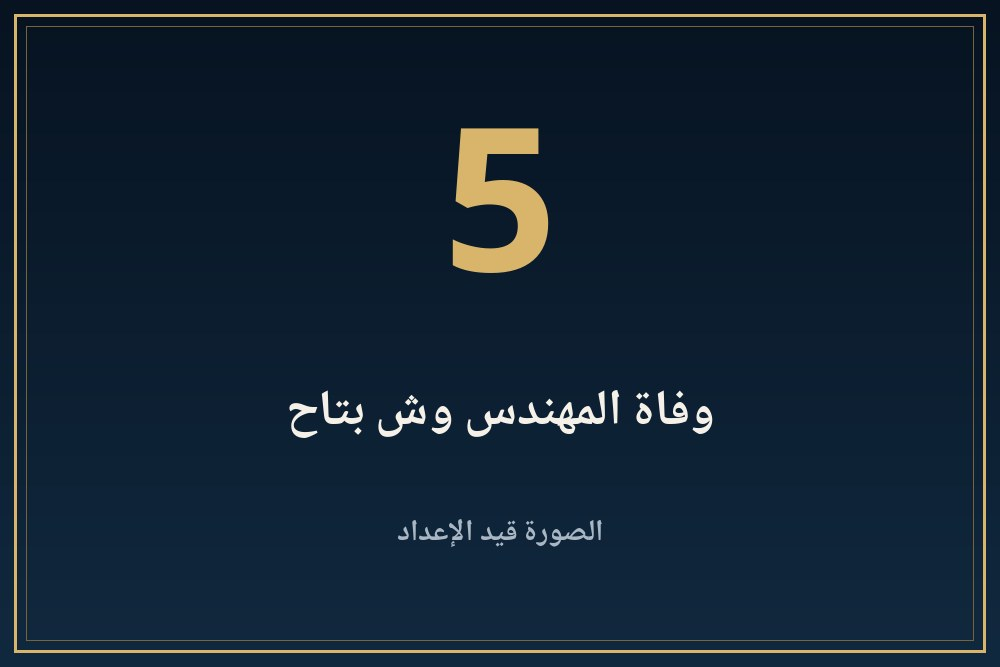
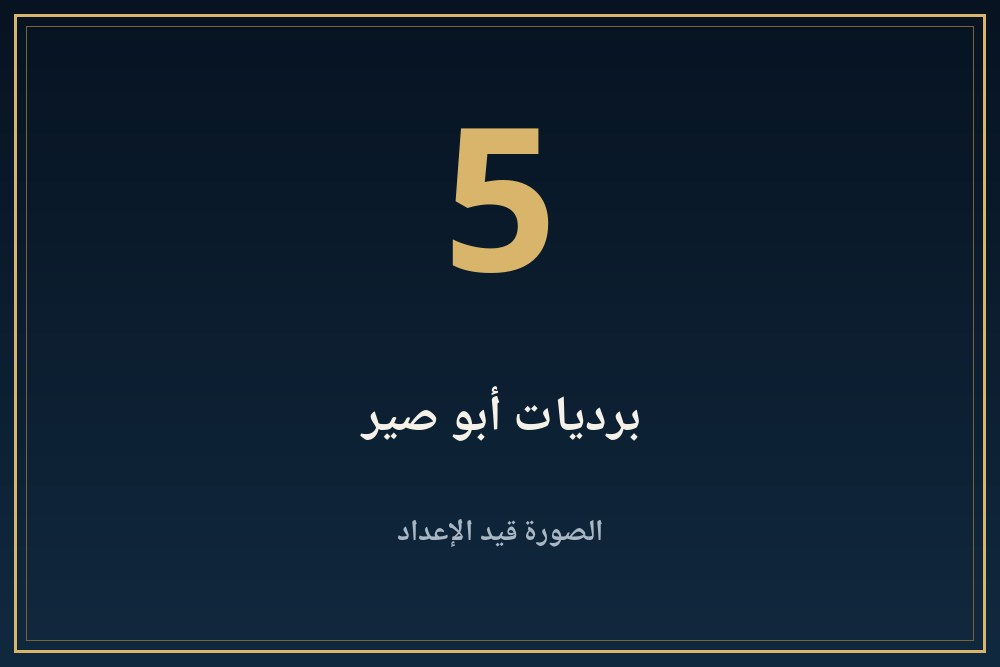
King 026: rebuilt from updated content (placeholders, audio pending)

Changed region(s): [[0.279, 0.5697, 0.713, 0.6597]]

diff --git a/kings/026-nfr-er-ka-ra-kakay/index.html b/kings/026-nfr-er-ka-ra-kakay/index.html
@@ -324,7 +324,7 @@ html[dir=ltr] #panav.open,#pash[dir=ltr] #panav.open{border-right:0!important;bo
 <div class="row"><span class="bdg v">موثّق</span><span>مذكور في مصدر مرقّم يمكن فتحه من قسم المراجع.</span></div>
 <div class="row"><span class="bdg d">محل خلاف</span><span>الصفحة نفسها تذكر أن الباحثين أو المصادر مختلفون فيه.</span></div>
 <div class="row"><span class="bdg u">لم يُتحقق منه</span><span>الصفحة تذكر أنه من مصدر واحد ولم يُتحقق منه في مصدر ثانٍ.</span></div></div>
-<div class="band" aria-hidden="true"></div><details class="acc k1" id="s1"><summary><img class="bnr" src="banners/b01.jpg?v=1" alt="" width="1000" height="667"><span class="n">1</span><span class="t">من هو؟</span><span class="ch"></span></summary><div class="body"><button class="lbtn" type="button" disabled aria-disabled="true" style="opacity:.55;cursor:default"><svg viewBox="0 0 24 24" fill="currentColor" aria-hidden="true"><path d="M7 4.5v15a1 1 0 001.5.86l12-7.5a1 1 0 000-1.72l-12-7.5A1 1 0 007 4.5z"/></svg><span>التعليق الصوتي قريبًا</span></button><p><span class="bdg v">موثّق</span> يقول سليم حسن (ج1 ص257-261) إن نفر إر كا رع، المعروف أيضا بكاكاي، ملك من الأسرة الخامسة. وأضاف للقب الملكي «نفر إر كا رع» ومعناه «جمال قرين رع» وحذا حذوه أخلافه (ص268).<sup><a href="#r1">[1]</a></sup></p></div></details><details class="acc k2" id="s2"><summary><img class="bnr" src="banners/b02.jpg?v=1" alt="" loading="lazy" width="1000" height="667"><span class="n">2</span><span class="t">أوقاف عين شمس</span><span class="ch"></span></summary><div class="body"><button class="lbtn" type="button" disabled aria-disabled="true" style="opacity:.55;cursor:default"><svg viewBox="0 0 24 24" fill="currentColor" aria-hidden="true"><path d="M7 4.5v15a1 1 0 001.5.86l12-7.5a1 1 0 000-1.72l-12-7.5A1 1 0 007 4.5z"/></svg><span>التعليق الصوتي قريبًا</span></button><p><span class="bdg v">موثّق</span> يقول سليم حسن (ص257) إن حجر بالرمو سجّل هبته التاسوع المقدس وأوقاف أرواح عين شمس بأرقام تفصيلية.<sup><a href="#r1">[1]</a></sup></p></div></details><details class="acc k3" id="s3"><summary><img class="bnr" src="banners/b03.jpg?v=1" alt="" loading="lazy" width="1000" height="667"><span class="n">3</span><span class="t">مرسوم إعفاء كهنة المعبد</span><span class="ch"></span></summary><div class="body"><button class="lbtn" type="button" disabled aria-disabled="true" style="opacity:.55;cursor:default"><svg viewBox="0 0 24 24" fill="currentColor" aria-hidden="true"><path d="M7 4.5v15a1 1 0 001.5.86l12-7.5a1 1 0 000-1.72l-12-7.5A1 1 0 007 4.5z"/></svg><span>التعليق الصوتي قريبًا</span></button><p><span class="bdg v">موثّق</span> يذكر سليم حسن (ص258) مرسوما يعفي كهنة المعبد من السخرة، وقد ترجمه كاملا.<sup><a href="#r1">[1]</a></sup></p></div></details><details class="acc k4" id="s4"><summary><img class="bnr" src="banners/b04.jpg?v=1" alt="" loading="lazy" width="1000" height="667"><span class="n">4</span><span class="t">عصا الملك ورع ور</span><span class="ch"></span></summary><div class="body"><button class="lbtn" type="button" disabled aria-disabled="true" style="opacity:.55;cursor:default"><svg viewBox="0 0 24 24" fill="currentColor" aria-hidden="true"><path d="M7 4.5v15a1 1 0 001.5.86l12-7.5a1 1 0 000-1.72l-12-7.5A1 1 0 007 4.5z"/></svg><span>التعليق الصوتي قريبًا</span></button><p><span class="bdg v">موثّق</span> يروي سليم حسن (ص259) قصة رع ور، وكيف لطمت عصا الملك ساقه.<sup><a href="#r1">[1]</a></sup></p></div></details><details class="acc k1" id="s5"><summary><img class="bnr" src="banners/b05.jpg?v=1" alt="" loading="lazy" width="1000" height="667"><span class="n">5</span><span class="t">وفاة المهندس وش بتاح</span><span class="ch"></span></summary><div class="body"><button class="lbtn" type="button" disabled aria-disabled="true" style="opacity:.55;cursor:default"><svg viewBox="0 0 24 24" fill="currentColor" aria-hidden="true"><path d="M7 4.5v15a1 1 0 001.5.86l12-7.5a1 1 0 000-1.72l-12-7.5A1 1 0 007 4.5z"/></svg><span>التعليق الصوتي قريبًا</span></button><p><span class="bdg v">موثّق</span> يروي سليم حسن (ص260-261) موت المهندس وش بتاح بنزيف في المخ أمام الملك، وأن الملك أمر بتابوت من الأبنوس وبتحنيطه بحضوره. ويقول إن ذلك «ضرب المثل الأعلى في حسن المعاملة... وقائع رحمة وإخاء» (ص261).<sup><a href="#r1">[1]</a></sup></p></div></details><details class="acc k2" id="s6"><summary><img class="bnr" src="banners/b06.jpg?v=1" alt="" loading="lazy" width="1000" height="667"><span class="n">6</span><span class="t">ما لا نعرفه</span><span class="ch"></span></summary><div class="body"><button class="lbtn" type="button" disabled aria-disabled="true" style="opacity:.55;cursor:default"><svg viewBox="0 0 24 24" fill="currentColor" aria-hidden="true"><path d="M7 4.5v15a1 1 0 001.5.86l12-7.5a1 1 0 000-1.72l-12-7.5A1 1 0 007 4.5z"/></svg><span>التعليق الصوتي قريبًا</span></button><p><span class="bdg u">لم يُتحقق منه</span> لم نقرأ في مصادرنا مدة حكمه بنص مضمون، ولا ما بقي من آثار هرمه. ولا نعرف مصدرا مصريا ثانيا عنه بعد.</p></div></details><details class="acc k4" id="refs"><summary><img class="bnr" src="banners/b07.jpg?v=1" alt="" loading="lazy" width="1000" height="667"><span class="n">7</span><span class="t">المراجع</span><span class="ch"></span></summary><div class="body"><button class="lbtn" type="button" disabled aria-disabled="true" style="opacity:.55;cursor:default"><svg viewBox="0 0 24 24" fill="currentColor" aria-hidden="true"><path d="M7 4.5v15a1 1 0 001.5.86l12-7.5a1 1 0 000-1.72l-12-7.5A1 1 0 007 4.5z"/></svg><span>التعليق الصوتي قريبًا</span></button><p><b>مصادر فتحتُ صفحاتها وقرأتها:</b></p><ol><li id="r1" dir="auto">سليم حسن، موسوعة مصر القديمة، ج1، الفصل 15: <a dir="ltr" style="display:inline-block;overflow-wrap:anywhere" href="https://archive.org/details/20201104_20201104_1559" rel="noopener" target="_blank">archive.org/details/20201104_20201104_1559</a></li></ol><div class="flag"><b>تنبيه:</b> عدد المصادر المصرية المفتوحة لهذه الصفحة واحد فقط. لا نضيف تفاصيل لم تثبت في مصدر فتحناه وقرأنا نصه، وحيث يختلف المصدران ننسب كل رأي لصاحبه.</div></div></details></article><aside class="abt" aria-label="عن هذه الصفحة"><h3>عن هذه الصفحة</h3><ul><li><b>المحتوى</b><span>جزء من موسوعة بر عنخ التعليمية. التواريخ والتفسيرات وفق المراجع المتاحة، وقد تختلف التفاصيل بين الدراسات.</span></li><li><b>الصور</b><span>صور هذه الصفحة أماكن حجز مؤقتة إلى أن تُضاف الصور الفنية.</span></li><li><b>الصوت</b><span>التعليق الصوتي قيد الإعداد.</span></li></ul></aside><a class="back" href="/kings/">← تصفح المزيد</a><a class="back" href="/">العودة إلى الرئيسية</a><dialog id="lb"><img alt=""><p></p><button type="button">إغلاق</button></dialog>
+<div class="band" aria-hidden="true"></div><details class="acc k1" id="s1"><summary><img class="bnr" src="banners/b01.jpg?v=1" alt="" width="1000" height="667"><span class="n">1</span><span class="t">من هو؟</span><span class="ch"></span></summary><div class="body"><button class="lbtn" type="button" disabled aria-disabled="true" style="opacity:.55;cursor:default"><svg viewBox="0 0 24 24" fill="currentColor" aria-hidden="true"><path d="M7 4.5v15a1 1 0 001.5.86l12-7.5a1 1 0 000-1.72l-12-7.5A1 1 0 007 4.5z"/></svg><span>التعليق الصوتي قريبًا</span></button><p><span class="bdg v">موثّق</span> يقول كتاب الميت (ص32) إن نفر إر كا رع ابن لمنكاورع وأخ لساحورع، أمهما خنتكاوس. ويقول نور الدين (ص714) إنه يُعرف أيضا بكاكاي.<sup><a href="#r3">[3]</a><a href="#r5">[5]</a></sup></p></div></details><details class="acc k2" id="s2"><summary><img class="bnr" src="banners/b02.jpg?v=1" alt="" loading="lazy" width="1000" height="667"><span class="n">2</span><span class="t">حجر بالرمو</span><span class="ch"></span></summary><div class="body"><button class="lbtn" type="button" disabled aria-disabled="true" style="opacity:.55;cursor:default"><svg viewBox="0 0 24 24" fill="currentColor" aria-hidden="true"><path d="M7 4.5v15a1 1 0 001.5.86l12-7.5a1 1 0 000-1.72l-12-7.5A1 1 0 007 4.5z"/></svg><span>التعليق الصوتي قريبًا</span></button><p><span class="bdg v">موثّق</span> يقول كتاب الميت (ص32) إن حجر بالرمو يعود إلى عهد نفر إر كا رع، الذي «يبدو أنه أول ملك رأى فائدة تسجيل الحوليات الملكية منذ بداية العصر التاريخي». ويقول (ص374) إنه لوح من الديوريت ارتفاعه 43 سم منقوش على وجهيه، وإن آخر ملك مذكور فيه نفر إر كا رع.<sup><a href="#r5">[5]</a></sup></p></div></details><details class="acc k3" id="s3"><summary><img class="bnr" src="banners/b03.jpg?v=1" alt="" loading="lazy" width="1000" height="667"><span class="n">3</span><span class="t">كيف يُقرأ حجر بالرمو؟</span><span class="ch"></span></summary><div class="body"><button class="lbtn" type="button" disabled aria-disabled="true" style="opacity:.55;cursor:default"><svg viewBox="0 0 24 24" fill="currentColor" aria-hidden="true"><path d="M7 4.5v15a1 1 0 001.5.86l12-7.5a1 1 0 000-1.72l-12-7.5A1 1 0 007 4.5z"/></svg><span>التعليق الصوتي قريبًا</span></button><p><span class="bdg v">موثّق</span> يقول كتاب الميت (ص374) إن الحجر مقسم إلى أشرطة أفقية، في أعلاها اسم الملك وأمه، وفي الصفوف التالية خانة لكل سنة حكم تسرد أبرز أحداثها: احتفالات وحروب وبناء وإحصاء للثروة، وفي السطر الثاني قياسات يُرجّح أنها ارتفاع الفيضان. ويقول صالح (ص71) إنه يضم فترات الحكم بالأعوام والشهور والأيام وعهودا مشهورة بمنشآت وأعياد وحروب وبعثات تجارية. ويقول حواس (ص11) إنه من القوائم الملكية التي تسجل تسلسل الملوك.<sup><a href="#r2">[2]</a><a href="#r4">[4]</a><a href="#r5">[5]</a></sup></p></div></details><details class="acc k4" id="s4"><summary><img class="bnr" src="banners/b04.jpg?v=1" alt="" loading="lazy" width="1000" height="667"><span class="n">4</span><span class="t">الإحصاء في حجر بالرمو</span><span class="ch"></span></summary><div class="body"><button class="lbtn" type="button" disabled aria-disabled="true" style="opacity:.55;cursor:default"><svg viewBox="0 0 24 24" fill="currentColor" aria-hidden="true"><path d="M7 4.5v15a1 1 0 001.5.86l12-7.5a1 1 0 000-1.72l-12-7.5A1 1 0 007 4.5z"/></svg><span>التعليق الصوتي قريبًا</span></button><p><span class="bdg d">محل خلاف</span> يقول صالح (ص135) إن الإحصاء المذكور في حوليات حجر بالرمو لا نعرف حقيقته: قد يكون إحصاء لمساحات الأراضي المنزرعة وموارد المناجم، أو إحصاء للسكان وممتلكاتهم كما يظن برستد، أو إحصاء للماشية. فالمسألة غير محسومة.<sup><a href="#r2">[2]</a></sup></p></div></details><details class="acc k1" id="s5"><summary><img class="bnr" src="banners/b05.jpg?v=1" alt="" loading="lazy" width="1000" height="667"><span class="n">5</span><span class="t">برديات أبو صير</span><span class="ch"></span></summary><div class="body"><button class="lbtn" type="button" disabled aria-disabled="true" style="opacity:.55;cursor:default"><svg viewBox="0 0 24 24" fill="currentColor" aria-hidden="true"><path d="M7 4.5v15a1 1 0 001.5.86l12-7.5a1 1 0 000-1.72l-12-7.5A1 1 0 007 4.5z"/></svg><span>التعليق الصوتي قريبًا</span></button><p><span class="bdg v">موثّق</span> يقول كتاب الميت (ص32) إن مجموعة برديات تكشف تنظيم الشعائر الجنائزية وُجدت في أطلال معبد نفر إر كا رع الجنائزي، وإن معبد الشمس كان يموّن القرابين اليومية للمجموعة الهرمية. ويقول (ص375-376) إن فلاحين وجدوها عام 1893 وباعوها، فتفرقت بين القاهرة ولندن وباريس وبرلين، وإن بورخارت وجد المزيد منها في مكانها قرب هرمه عام 1903، وهي من أقدم الوثائق في مصر الفرعونية، وتشمل قوائم أفراد وسجلات وجردا وجداول كهنة. ويؤرخ الكتاب القطعة 117 إلى عهد إسيسي، فالأرشيف بدأ عند نفر إر كا رع واستمر بعده.<sup><a href="#r5">[5]</a></sup></p></div></details><details class="acc k2" id="s6"><summary><img class="bnr" src="banners/b06.jpg?v=1" alt="" loading="lazy" width="1000" height="667"><span class="n">6</span><span class="t">الألقاب الملكية</span><span class="ch"></span></summary><div class="body"><button class="lbtn" type="button" disabled aria-disabled="true" style="opacity:.55;cursor:default"><svg viewBox="0 0 24 24" fill="currentColor" aria-hidden="true"><path d="M7 4.5v15a1 1 0 001.5.86l12-7.5a1 1 0 000-1.72l-12-7.5A1 1 0 007 4.5z"/></svg><span>التعليق الصوتي قريبًا</span></button><p><span class="bdg v">موثّق</span> يقول كتاب الميت (ص32) إن شكل الألقاب الملكية صار منتظما في عهده بخمسة عناصر، اثنان منها داخل خرطوشين. ويقول سليم حسن (ص268) إنه أضاف لقب «نفر إر كا رع» أي «جمال قرين رع» وحذا حذوه أخلافه.<sup><a href="#r1">[1]</a><a href="#r5">[5]</a></sup></p></div></details><details class="acc k3" id="s7"><summary><img class="bnr" src="banners/b07.jpg?v=1" alt="" loading="lazy" width="1000" height="667"><span class="n">7</span><span class="t">حكايتان من عهده</span><span class="ch"></span></summary><div class="body"><button class="lbtn" type="button" disabled aria-disabled="true" style="opacity:.55;cursor:default"><svg viewBox="0 0 24 24" fill="currentColor" aria-hidden="true"><path d="M7 4.5v15a1 1 0 001.5.86l12-7.5a1 1 0 000-1.72l-12-7.5A1 1 0 007 4.5z"/></svg><span>التعليق الصوتي قريبًا</span></button><p><span class="bdg d">محل خلاف</span> يقول صالح (ص211) إن رجلين من عهده رويا حكايتين: رع ور الذي وكزه الملك بعصاه ربما عن غير قصد في حفل، ثم طمأنه وسمح له بنقش ذلك في مقبرته، والوزير واش بتاح الذي مات فجأة والملك يرافقه، فحاول الملك إسعافه بعقاقيره، ثم ترحم عليه. ويقول صالح إن فيكنتيف رأى أن وقوع الحادثتين في عهد واحد يدل على مصلحة للملك فيهما، وإن شارف فسّر الأولى تفسيرا آخر. ويرويهما سليم حسن (ص259-261) أيضا.<sup><a href="#r1">[1]</a><a href="#r2">[2]</a></sup></p></div></details><details class="acc k4" id="s8"><summary><img class="bnr" src="banners/b08.jpg?v=1" alt="" loading="lazy" width="1000" height="667"><span class="n">8</span><span class="t">ما لا نعرفه</span><span class="ch"></span></summary><div class="body"><button class="lbtn" type="button" disabled aria-disabled="true" style="opacity:.55;cursor:default"><svg viewBox="0 0 24 24" fill="currentColor" aria-hidden="true"><path d="M7 4.5v15a1 1 0 001.5.86l12-7.5a1 1 0 000-1.72l-12-7.5A1 1 0 007 4.5z"/></svg><span>التعليق الصوتي قريبًا</span></button><p><span class="bdg u">لم يُتحقق منه</span> لا نعرف مدة حكمه بيقين: أرقام قائمة نور الدين (ص714) مشوهة في نسختنا، فلم نذكرها. ولا نعرف سبب توقف حجر بالرمو عنده.</p></div></details><details class="acc k4" id="refs"><summary><img class="bnr" src="banners/b09.jpg?v=1" alt="" loading="lazy" width="1000" height="667"><span class="n">9</span><span class="t">المراجع</span><span class="ch"></span></summary><div class="body"><button class="lbtn" type="button" disabled aria-disabled="true" style="opacity:.55;cursor:default"><svg viewBox="0 0 24 24" fill="currentColor" aria-hidden="true"><path d="M7 4.5v15a1 1 0 001.5.86l12-7.5a1 1 0 000-1.72l-12-7.5A1 1 0 007 4.5z"/></svg><span>التعليق الصوتي قريبًا</span></button><p><b>مصادر فتحتُ صفحاتها وقرأتها:</b></p><ol><li id="r1" dir="auto">سليم حسن، موسوعة مصر القديمة، ج1، الفصل 15: <a dir="ltr" style="display:inline-block;overflow-wrap:anywhere" href="https://archive.org/details/20201104_20201104_1559" rel="noopener" target="_blank">archive.org/details/20201104_20201104_1559</a></li><li id="r2" dir="auto">عبد العزيز صالح، الشرق الأدنى القديم ج1 (مصر والعراق)، أرقام صفحات PDF: <a dir="ltr" style="display:inline-block;overflow-wrap:anywhere" href="https://archive.org/details/20210510_20210510_0037" rel="noopener" target="_blank">archive.org/details/20210510_20210510_0037</a></li><li id="r3" dir="auto">عبد الحليم نور الدين، آثار وحضارة مصر القديمة ج1، أرقام صفحات PDF: <a dir="ltr" style="display:inline-block;overflow-wrap:anywhere" href="https://archive.org/details/AAlexandrina-117303" rel="noopener" target="_blank">archive.org/details/AAlexandrina-117303</a></li><li id="r4" dir="auto">زاهي حواس، 100 حقيقة مثيرة في حياة الفراعنة، أرقام الصفحات المطبوعة: <a dir="ltr" style="display:inline-block;overflow-wrap:anywhere" href="https://archive.org/details/1-100_202311" rel="noopener" target="_blank">archive.org/details/1-100_202311</a></li><li id="r5" dir="auto">The Metropolitan Museum of Art, Egyptian Art in the Age of the Pyramids, 1999 (فصول كوزلوف وأرنولد وزيجلر وجريمال): <a dir="ltr" style="display:inline-block;overflow-wrap:anywhere" href="https://www.metmuseum.org/met-publications/egyptian-art-in-the-age-of-the-pyramids" rel="noopener" target="_blank">www.metmuseum.org/met-publications/egyptian-art-in-the-age-of-the-pyramids</a></li></ol></div></details></article><aside class="abt" aria-label="عن هذه الصفحة"><h3>عن هذه الصفحة</h3><ul><li><b>المحتوى</b><span>جزء من موسوعة بر عنخ التعليمية. التواريخ والتفسيرات وفق المراجع المتاحة، وقد تختلف التفاصيل بين الدراسات.</span></li><li><b>الصور</b><span>صور هذه الصفحة أماكن حجز مؤقتة إلى أن تُضاف الصور الفنية.</span></li><li><b>الصوت</b><span>التعليق الصوتي قيد الإعداد.</span></li></ul></aside><a class="back" href="/kings/">← تصفح المزيد</a><a class="back" href="/">العودة إلى الرئيسية</a><dialog id="lb"><img alt=""><p></p><button type="button">إغلاق</button></dialog>
 <script>(function(){var A=function(){return document.querySelectorAll("details.acc")};
 document.getElementById("all").onclick=function(){A().forEach(function(d){d.open=true})};
 document.getElementById("none").onclick=function(){A().forEach(function(d){d.open=false})};
@@ -332,7 +332,7 @@ function go(h){var e=h&&document.getElementById(h.slice(1));if(!e)return;var d=e
 document.addEventListener("click",function(e){var a=e.target.closest&&e.target.closest('a[href^="#"]');if(a){go(a.getAttribute("href"))}});
 if(location.hash)go(location.hash);
 var d=document.getElementById("lb");if(!d||!d.showModal)return;var im=d.querySelector("img"),p=d.querySelector("p");document.addEventListener("click",function(e){var t=e.target;if(t.tagName=="IMG"&&t.closest(".fig")){im.src=t.src;im.alt=t.alt;p.textContent=t.closest("figure").querySelector("figcaption").innerText;d.showModal()}else if(t==d||t.tagName=="BUTTON"&&d.contains(t)){d.close()}})})();</script><div class="pbar" id="pbar"></div><div class="pl" id="pl" role="region" aria-label="مشغّل الاستماع"><div class="in"><button class="pp" id="pp" type="button" aria-label="تشغيل"><svg viewBox="0 0 24 24" fill="currentColor" aria-hidden="true"><path d="M7 4.5v15a1 1 0 001.5.86l12-7.5a1 1 0 000-1.72l-12-7.5A1 1 0 007 4.5z"/></svg></button><div class="mid"><div class="ttl"><span id="tt">استماع</span> <i>صوت اصطناعي</i></div><input id="sk" type="range" min="0" max="1000" value="0" aria-label="موضع التشغيل"><div class="tm"><span id="cur">0:00</span><span id="dur">0:00</span></div></div><div class="ex"><button id="bk" type="button" aria-label="رجوع 10 ثوانٍ">−10</button><button id="fw" type="button" aria-label="تقدم 10 ثوانٍ">+10</button><button id="sp" class="sp" type="button" aria-label="سرعة التشغيل">1×</button><button id="cl" type="button" aria-label="إغلاق المشغّل">✕</button></div><p class="err" id="er" role="alert" hidden>تعذر تحميل الملف الصوتي. حاول لاحقًا.</p></div><div aria-live="polite" id="st" style="position:absolute;left:-9999px"></div><audio id="au" preload="none"></audio></div></main><script>(function(){
-var S={"s1": ["من هو؟", 1], "s2": ["أوقاف عين شمس", 1], "s3": ["مرسوم إعفاء كهنة المعبد", 1], "s4": ["عصا الملك ورع ور", 1], "s5": ["وفاة المهندس وش بتاح", 1], "s6": ["ما لا نعرفه", 1], "refs": ["المراجع", 1]},$=function(i){return document.getElementById(i)},au=$("au"),pl=$("pl"),pp=$("pp"),sk=$("sk"),P="<svg viewBox=\"0 0 24 24\" fill=\"currentColor\" aria-hidden=\"true\"><path d=\"M7 4.5v15a1 1 0 001.5.86l12-7.5a1 1 0 000-1.72l-12-7.5A1 1 0 007 4.5z\"/></svg>",Q="<svg viewBox=\"0 0 24 24\" fill=\"currentColor\" aria-hidden=\"true\"><rect x=\"5.5\" y=\"4\" width=\"4.5\" height=\"16\" rx=\"1.2\"/><rect x=\"14\" y=\"4\" width=\"4.5\" height=\"16\" rx=\"1.2\"/></svg>",cur=null,part=1,seeking=false;
+var S={"s1": ["من هو؟", 1], "s2": ["حجر بالرمو", 1], "s3": ["كيف يُقرأ حجر بالرمو؟", 1], "s4": ["الإحصاء في حجر بالرمو", 1], "s5": ["برديات أبو صير", 1], "s6": ["الألقاب الملكية", 1], "s7": ["حكايتان من عهده", 1], "s8": ["ما لا نعرفه", 1], "refs": ["المراجع", 1]},$=function(i){return document.getElementById(i)},au=$("au"),pl=$("pl"),pp=$("pp"),sk=$("sk"),P="<svg viewBox=\"0 0 24 24\" fill=\"currentColor\" aria-hidden=\"true\"><path d=\"M7 4.5v15a1 1 0 001.5.86l12-7.5a1 1 0 000-1.72l-12-7.5A1 1 0 007 4.5z\"/></svg>",Q="<svg viewBox=\"0 0 24 24\" fill=\"currentColor\" aria-hidden=\"true\"><rect x=\"5.5\" y=\"4\" width=\"4.5\" height=\"16\" rx=\"1.2\"/><rect x=\"14\" y=\"4\" width=\"4.5\" height=\"16\" rx=\"1.2\"/></svg>",cur=null,part=1,seeking=false;
 function fmt(t){if(!isFinite(t))return"0:00";var m=Math.floor(t/60),s=Math.floor(t%60);return m+":"+(s<10?"0":"")+s}
 function btns(){document.querySelectorAll(".lbtn").forEach(function(b){var on=b.dataset.s===cur&&!au.paused;b.classList.toggle("on",on);b.querySelector("span").textContent=on?"إيقاف مؤقت":(b.dataset.s===cur&&au.currentTime>1?"أكمل الاستماع":"استمع لهذا القسم");b.querySelector("svg").outerHTML=on?Q:P})}
 function ui(){var pa=au.paused;pp.innerHTML=pa?P:Q;pp.setAttribute("aria-label",pa?"تشغيل":"إيقاف مؤقت");btns()}
